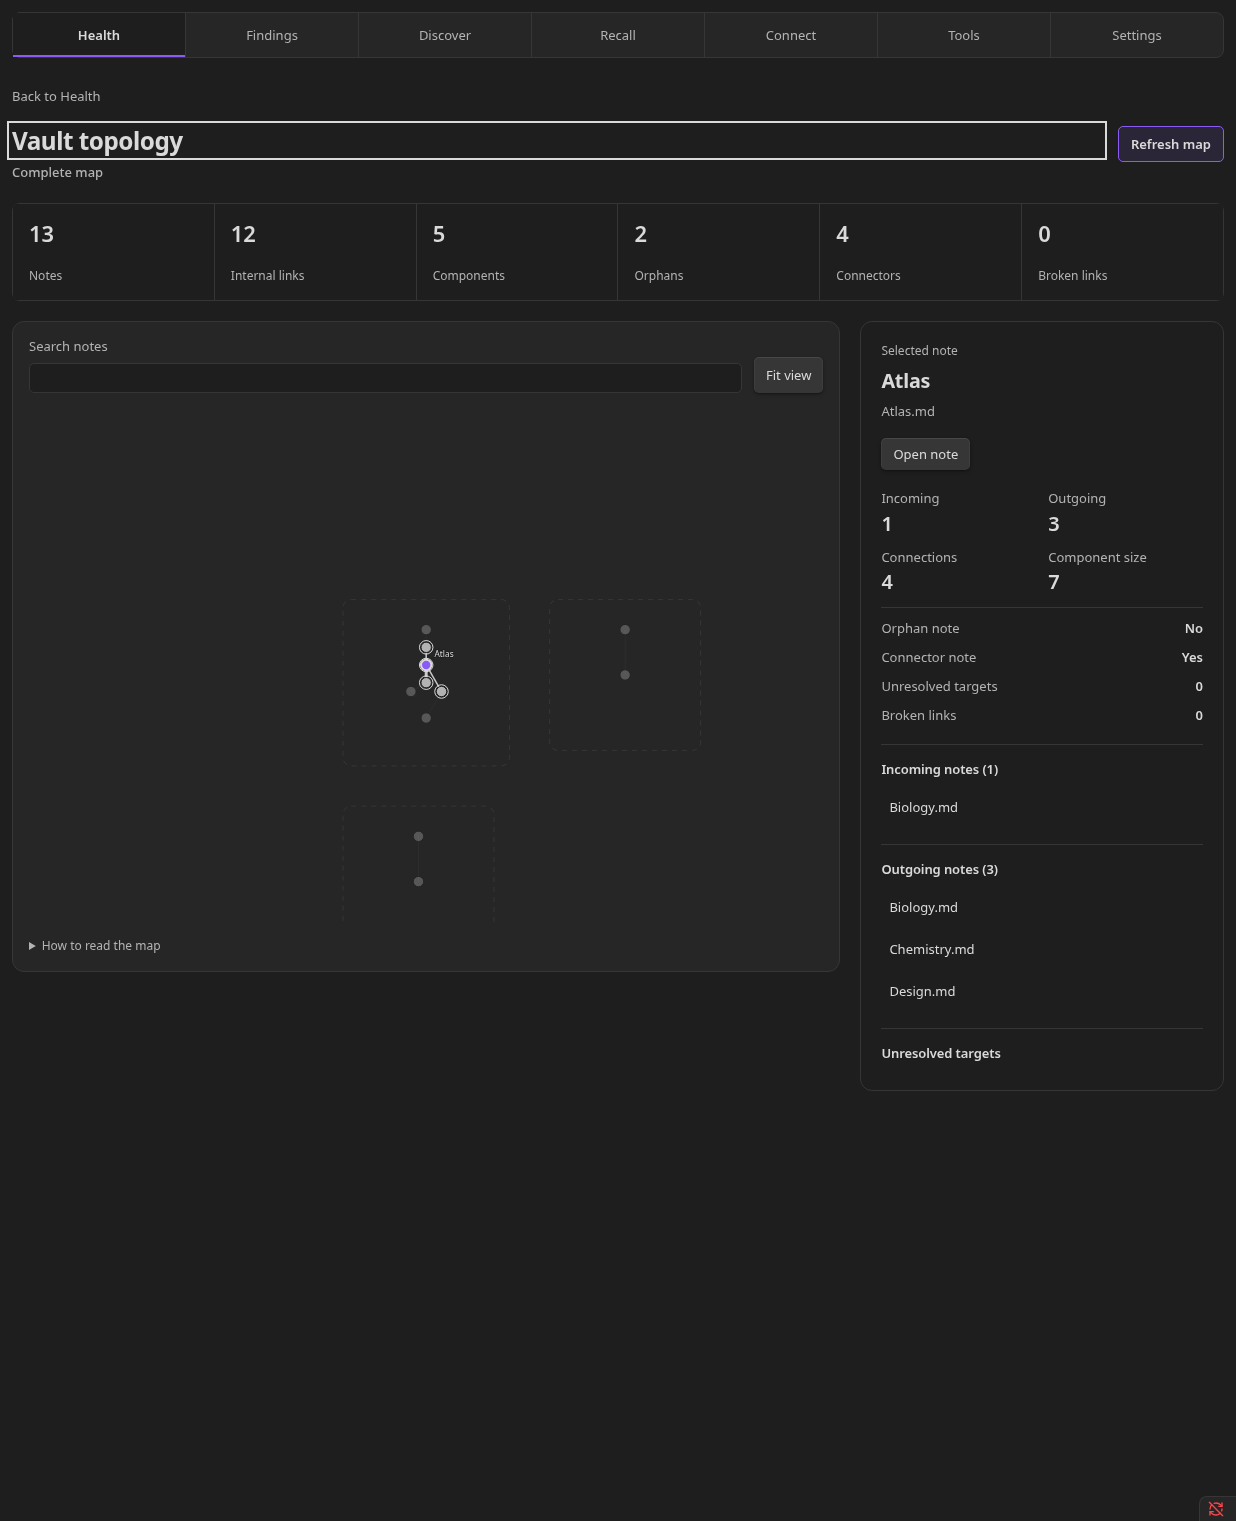
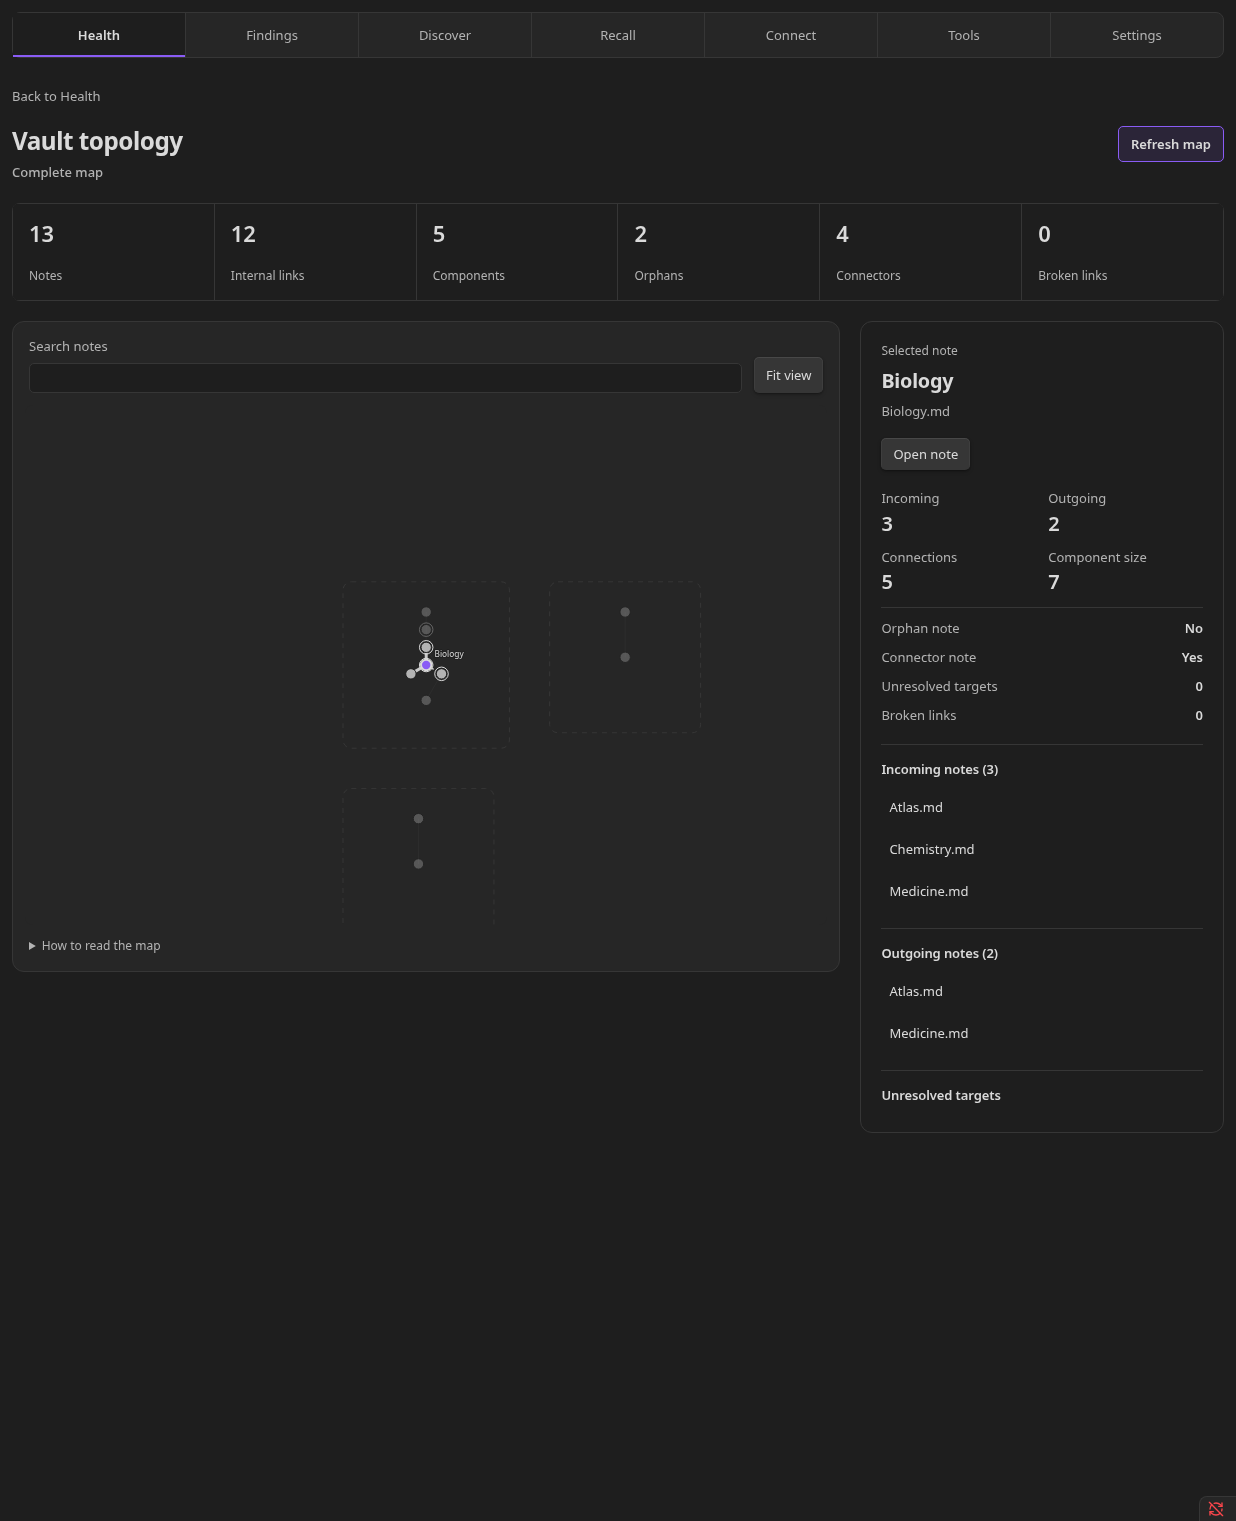
fix: refine topology heading focus and verification history

Changed region(s): [[0.7071, 0.5253, 0.7994, 0.7416], [0.7071, 0.2472, 0.7686, 0.2781], [0.3382, 0.4017, 0.3689, 0.4635]]

diff --git a/styles.css b/styles.css
@@ -2203,7 +2203,9 @@
 .veynrel-topology-legend { padding: var(--size-4-3) var(--size-4-1) var(--size-4-1); line-height: 1.5; }
 .veynrel-topology-legend summary { cursor: pointer; width: fit-content; max-width: 100%; }
 .veynrel-topology-legend p { margin-block-end: 0; }
-.veynrel-health-view .veynrel-topology-detail :is(button, input, summary, h1, h2):focus-visible { outline: 2px solid var(--text-normal); outline-offset: 3px; }
+.veynrel-health-view .veynrel-topology-detail :is(button, input, summary):focus-visible { outline: 2px solid var(--text-normal); outline-offset: 3px; }
+/* Headings are programmatic focus destinations, not interactive controls. */
+.veynrel-health-view .veynrel-topology-detail :is(h1, h2)[tabindex="-1"]:focus { outline: none; }
 .veynrel-topology-empty { padding-block: var(--size-4-6); color: var(--text-muted); }
 .veynrel-health-view .veynrel-health-status[data-topology-contextual="true"] {
   position: absolute;

diff --git a/docs/vault-topology.md b/docs/vault-topology.md
@@ -187,10 +187,11 @@ normal theme ink over a lightly tinted surface for readability with yellow accen
 English and Russian use the shared i18n system, including partial/unknown/stale/error
 states and the legend disclosure.
 
-## Verification
+## Original topology verification — PR #51 (merged)
 
 Baseline: `c746d3b096c444d0ae398e1df217f83e73f96892` (merged PR #50).
-Branch: `feat/vault-topology`. No dependency, version, tag or release changes.
+Original branch: `feat/vault-topology`, merged into `main` in PR #51.
+No dependency, version, tag or release changes.
 
 Automated tests cover chain, cycle, linked clusters, DFS-root articulation, empty,
 singleton, multiple/weak components, reciprocal and self-link behavior, broken
@@ -290,9 +291,11 @@ theme compatibility are not claimed.
 
 No semantic edges, fabricated graph, automatic Health-entry topology scan, note
 body reads, AI, topology persistence, new Findings, Health state changes, version
-bump, tag or release. The topology PR is left open and unmerged.
+bump, tag or release. The original topology work was merged in PR #51.
 
 ## UI refinement verification — 2026-09-26
+
+Follow-up branch: `feat/topology-ui-polish`, based on merged topology PR #51.
 
 The presentation refinement preserves the source, controller, layout algorithm,
 graph renderer and contracts. Two added EN/RU UI cases verify header/action
@@ -327,3 +330,9 @@ Final screenshots: [desktop](vault-topology-evidence/ui-refinement-desktop.png),
 [390px Russian/light](vault-topology-evidence/ui-refinement-narrow.png).
 The native scripts and detailed results are retained under
 `/tmp/vault-topology-smoke/polish-{native,checks,interactions}.{mjs,json}`.
+
+Final heading-focus correction: `tabindex="-1"` h1/h2 destinations keep DOM focus
+without a control-style outline. Native EN/RU × dark/light × 1280/390px checks
+passed all eight cases (97 assertions), including visible keyboard focus on
+buttons, inputs, navigation and disclosures. The screenshots above were refreshed;
+focused-heading evidence is retained in `/tmp/vault-topology-smoke/heading-focus.json`.
